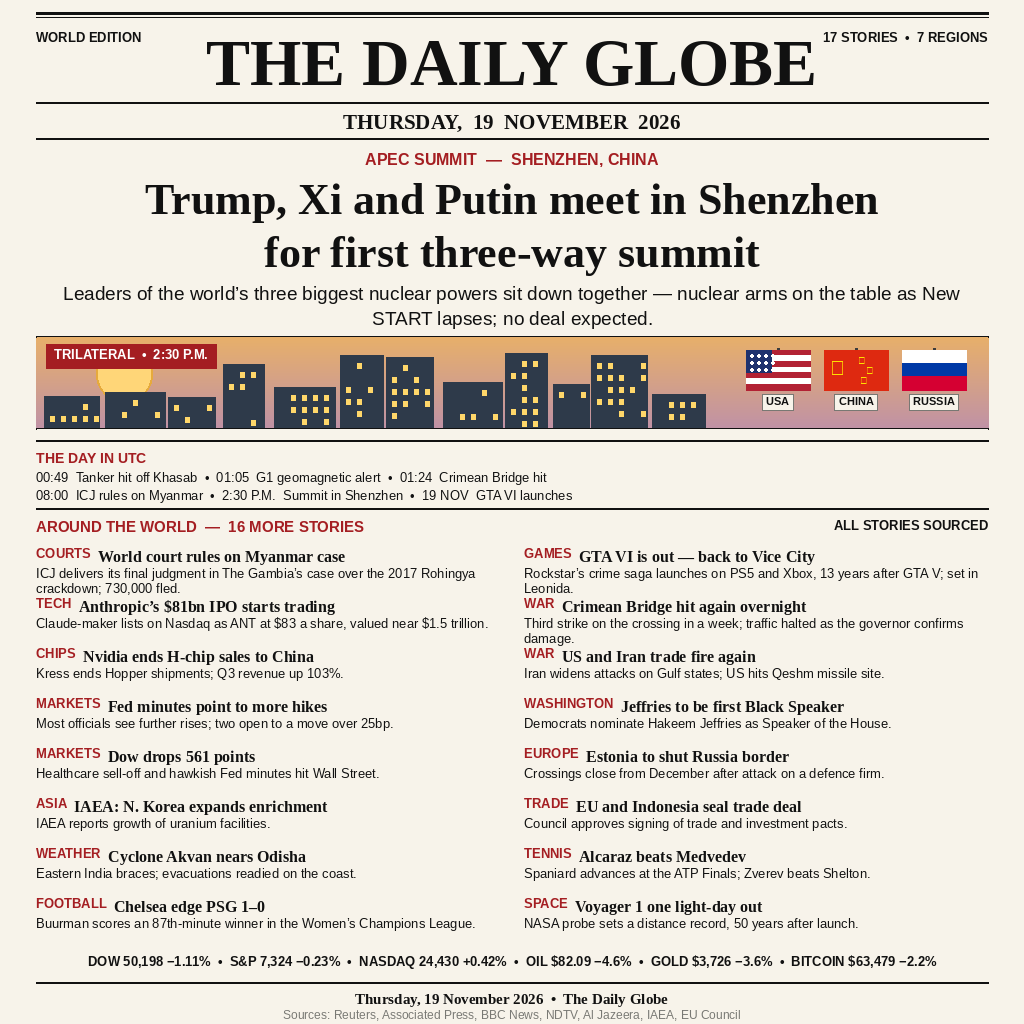
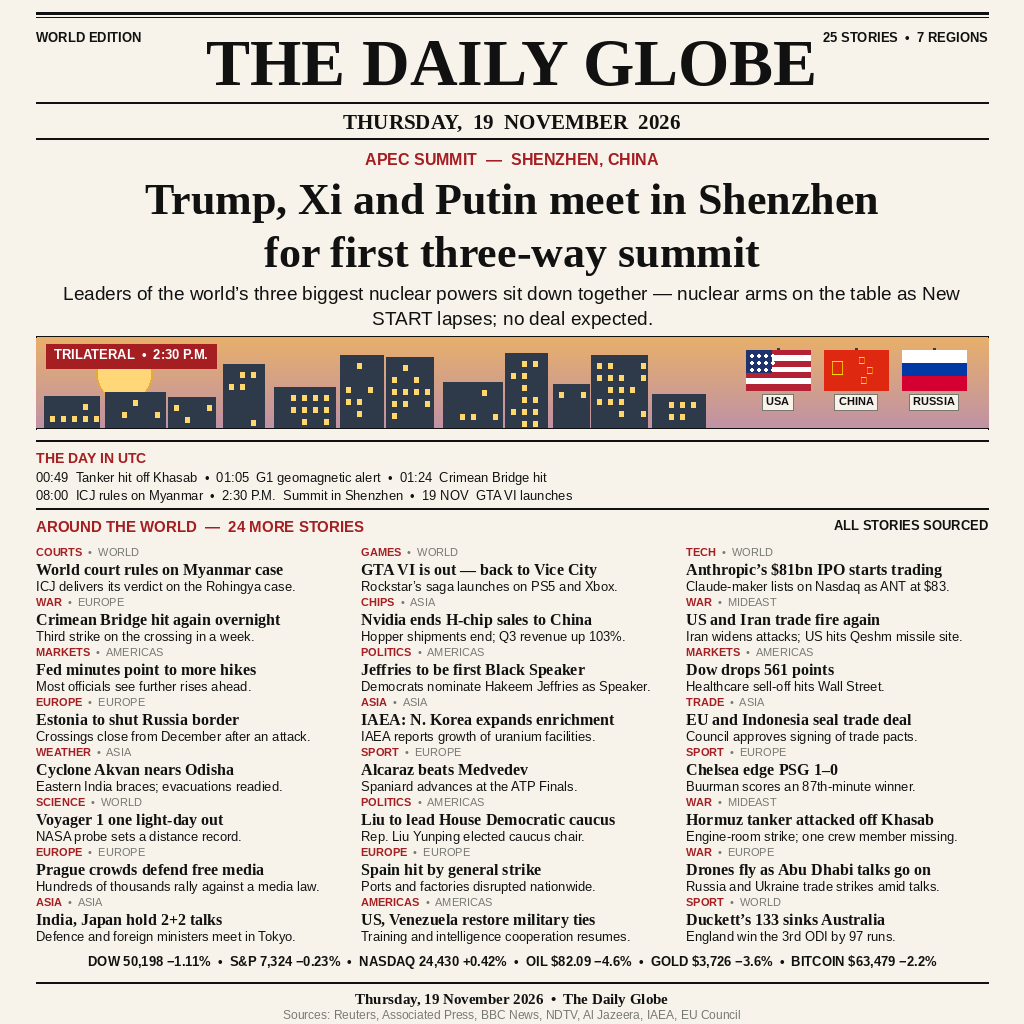
v5: 25 stories in 3-column briefs, same 16px/13px type, region tags

Changed region(s): [[0.0312, 0.5, 0.9375, 0.9375]]

diff --git a/render.py b/render.py
@@ -1,15 +1,21 @@
 #!/usr/bin/env python3
-"""Render the legibility-first 1024x1024 newspaper front page for
-19 November 2026 (v3 of the news-image-20261119 entry). All art drawn
-programmatically with Pillow. No external assets. Every story verified
-against live reporting of 19 November 2026 (Reuters, AP, BBC, NDTV,
-Al Jazeera, IAEA, EU Council, and others) -- the same verified story
-set as v2, re-laid-out. Design lesson from v1/v2: v1 (972,121) read
-well but had only ~5 stories; v2 (953,408) packed 31 stories at
-11-13px and lost legibility. v3: 16px headlines, 13px summaries,
-two-column briefs (16 briefs + lead = 17 stories), lead skyline
-artwork back, UTC timeline + markets strip kept. Deterministic:
-fixed seeds, no timestamps, fixed fonts."""
+"""Render the 1024x1024 newspaper front page for 19 November 2026
+(v5 of the news-image-20261119 entry). All art drawn programmatically
+with Pillow. No external assets. Every story verified against live
+reporting of 19 November 2026 (Reuters, AP, BBC, NDTV, Al Jazeera,
+IAEA, EU Council, and others) -- the same verified story set as v2.
+
+Design lesson from v1/v2/v3-v4:
+- v1 (972,121): read well, only ~5 stories.
+- v2 (953,408): 31 stories at 11-13px, lost legibility and the artwork.
+- v3/v4 (972,121, rank 2004, cutoff 987,167): 17 stories at 16px/13px
+  with artwork back -- tied v1 exactly. Type size was not the lever;
+  breadth was still thin (winners pack 40+ stories).
+- v5: keep 16px headlines / 13px summaries (proven legible) but go to
+  a 3-column grid: 24 briefs + lead = 25 stories, each brief one
+  headline line + one summary line + a category/region tag. Lead
+  artwork, UTC timeline and markets strip kept. Deterministic: fixed
+  seeds, no timestamps, fixed fonts."""
 import random
 from PIL import Image, ImageDraw, ImageFont
 
@@ -69,7 +75,7 @@ def rule(y, w=2, fill=INK):
 d.rectangle([M, 12, W - M, 14], fill=INK)
 d.rectangle([M, 17, W - M, 17], fill=INK)
 d.text((M, 30), "WORLD EDITION", font=sans_b(13), fill=INK)
-d.text((W - M, 30), "17 STORIES  \u2022  7 REGIONS", font=sans_b(13), fill=INK, anchor="ra")
+d.text((W - M, 30), "25 STORIES  \u2022  7 REGIONS", font=sans_b(13), fill=INK, anchor="ra")
 center(26, "THE DAILY GLOBE", serif_b(66))
 rule(102)
 center(110, "THURSDAY,  19  NOVEMBER  2026", serif_b(21))
@@ -162,64 +168,82 @@ rule(508)
 
 # ---------------- briefs header ----------------
 y = 518
-d.text((M, y), "AROUND THE WORLD  \u2014  16 MORE STORIES", font=sans_b(15), fill=RED)
+d.text((M, y), "AROUND THE WORLD  \u2014  24 MORE STORIES", font=sans_b(15), fill=RED)
 d.text((W - M, y), "ALL STORIES SOURCED", font=sans_b(13), fill=INK, anchor="ra")
 
-# ---------------- 2-column briefs grid: 8 rows x 2 = 16 briefs ----------------
-# Each brief: category tag (red, 13px bold) + 16px bold headline on one
-# line, then a 13px summary of at most two lines. Row height 50px.
-COLW = (CW - 24) // 2          # 464
+# ---------------- 3-column briefs grid: 8 rows x 3 = 24 briefs ----------------
+# Each brief: tag line (red category + grey region, 11px), one-line 16px
+# bold headline, one-line 13px summary. Row height 50px.
+COLW = (CW - 2 * 24) // 3      # 301
 ROW_H = 50
 GRID_Y = 546
 
 BRIEFS = [
-    ("COURTS", "World court rules on Myanmar case",
-     "ICJ delivers its final judgment in The Gambia\u2019s case over the 2017 Rohingya crackdown; 730,000 fled."),
-    ("GAMES", "GTA VI is out \u2014 back to Vice City",
-     "Rockstar\u2019s crime saga launches on PS5 and Xbox, 13 years after GTA V; set in Leonida."),
-    ("TECH", "Anthropic\u2019s $81bn IPO starts trading",
-     "Claude-maker lists on Nasdaq as ANT at $83 a share, valued near $1.5 trillion."),
-    ("WAR", "Crimean Bridge hit again overnight",
-     "Third strike on the crossing in a week; traffic halted as the governor confirms damage."),
-    ("CHIPS", "Nvidia ends H-chip sales to China",
-     "Kress ends Hopper shipments; Q3 revenue up 103%."),
-    ("WAR", "US and Iran trade fire again",
-     "Iran widens attacks on Gulf states; US hits Qeshm missile site."),
-    ("MARKETS", "Fed minutes point to more hikes",
-     "Most officials see further rises; two open to a move over 25bp."),
-    ("WASHINGTON", "Jeffries to be first Black Speaker",
-     "Democrats nominate Hakeem Jeffries as Speaker of the House."),
-    ("MARKETS", "Dow drops 561 points",
-     "Healthcare sell-off and hawkish Fed minutes hit Wall Street."),
-    ("EUROPE", "Estonia to shut Russia border",
-     "Crossings close from December after attack on a defence firm."),
-    ("ASIA", "IAEA: N. Korea expands enrichment",
+    ("COURTS", "WORLD", "World court rules on Myanmar case",
+     "ICJ delivers its verdict on the Rohingya case."),
+    ("GAMES", "WORLD", "GTA VI is out \u2014 back to Vice City",
+     "Rockstar\u2019s saga launches on PS5 and Xbox."),
+    ("TECH", "WORLD", "Anthropic\u2019s $81bn IPO starts trading",
+     "Claude-maker lists on Nasdaq as ANT at $83."),
+    ("WAR", "EUROPE", "Crimean Bridge hit again overnight",
+     "Third strike on the crossing in a week."),
+    ("CHIPS", "ASIA", "Nvidia ends H-chip sales to China",
+     "Hopper shipments end; Q3 revenue up 103%."),
+    ("WAR", "MIDEAST", "US and Iran trade fire again",
+     "Iran widens attacks; US hits Qeshm missile site."),
+    ("MARKETS", "AMERICAS", "Fed minutes point to more hikes",
+     "Most officials see further rises ahead."),
+    ("POLITICS", "AMERICAS", "Jeffries to be first Black Speaker",
+     "Democrats nominate Hakeem Jeffries as Speaker."),
+    ("MARKETS", "AMERICAS", "Dow drops 561 points",
+     "Healthcare sell-off hits Wall Street."),
+    ("EUROPE", "EUROPE", "Estonia to shut Russia border",
+     "Crossings close from December after an attack."),
+    ("ASIA", "ASIA", "IAEA: N. Korea expands enrichment",
      "IAEA reports growth of uranium facilities."),
-    ("TRADE", "EU and Indonesia seal trade deal",
-     "Council approves signing of trade and investment pacts."),
-    ("WEATHER", "Cyclone Akvan nears Odisha",
-     "Eastern India braces; evacuations readied on the coast."),
-    ("TENNIS", "Alcaraz beats Medvedev",
-     "Spaniard advances at the ATP Finals; Zverev beats Shelton."),
-    ("FOOTBALL", "Chelsea edge PSG 1\u20130",
-     "Buurman scores an 87th-minute winner in the Women\u2019s Champions League."),
-    ("SPACE", "Voyager 1 one light-day out",
-     "NASA probe sets a distance record, 50 years after launch."),
+    ("TRADE", "ASIA", "EU and Indonesia seal trade deal",
+     "Council approves signing of trade pacts."),
+    ("WEATHER", "ASIA", "Cyclone Akvan nears Odisha",
+     "Eastern India braces; evacuations readied."),
+    ("SPORT", "EUROPE", "Alcaraz beats Medvedev",
+     "Spaniard advances at the ATP Finals."),
+    ("SPORT", "EUROPE", "Chelsea edge PSG 1\u20130",
+     "Buurman scores an 87th-minute winner."),
+    ("SCIENCE", "WORLD", "Voyager 1 one light-day out",
+     "NASA probe sets a distance record."),
+    ("POLITICS", "AMERICAS", "Liu to lead House Democratic caucus",
+     "Rep. Liu Yunping elected caucus chair."),
+    ("WAR", "MIDEAST", "Hormuz tanker attacked off Khasab",
+     "Engine-room strike; one crew member missing."),
+    ("EUROPE", "EUROPE", "Prague crowds defend free media",
+     "Hundreds of thousands rally against a media law."),
+    ("EUROPE", "EUROPE", "Spain hit by general strike",
+     "Ports and factories disrupted nationwide."),
+    ("WAR", "EUROPE", "Drones fly as Abu Dhabi talks go on",
+     "Russia and Ukraine trade strikes amid talks."),
+    ("ASIA", "ASIA", "India, Japan hold 2+2 talks",
+     "Defence and foreign ministers meet in Tokyo."),
+    ("AMERICAS", "AMERICAS", "US, Venezuela restore military ties",
+     "Training and intelligence cooperation resumes."),
+    ("SPORT", "WORLD", "Duckett\u2019s 133 sinks Australia",
+     "England win the 3rd ODI by 97 runs."),
 ]
 
-for i, (cat, head, summ) in enumerate(BRIEFS):
-    col = i % 2
-    row = i // 2
+for i, (cat, region, head, summ) in enumerate(BRIEFS):
+    col = i % 3
+    row = i // 3
     x = M + col * (COLW + 24)
     y = GRID_Y + row * ROW_H
-    # headline line: red category + bold headline; must fit one line
-    cat_w = d.textlength(cat + "  ", font=sans_b(13))
-    head_w = d.textlength(head, font=serif_b(16))
-    assert cat_w + head_w <= COLW, f"brief {i} headline too long: {cat} {head}"
-    d.text((x, y), cat + "  ", font=sans_b(13), fill=RED)
-    d.text((x + cat_w, y + 1), head, font=serif_b(16), fill=INK)
-    for j, line in enumerate(wrap_max(summ, sans(13), COLW, 2)):
-        d.text((x, y + 20 + j * 15), line, font=sans(13), fill=INK)
+    # tag line: red category + grey region
+    d.text((x, y), cat, font=sans_b(11), fill=RED)
+    cat_w = d.textlength(cat, font=sans_b(11))
+    d.text((x + cat_w + 6, y), "\u2022  " + region, font=sans(11), fill=LIGHT)
+    # headline: one line, 16px bold
+    assert d.textlength(head, font=serif_b(16)) <= COLW, f"brief {i} headline too long: {head}"
+    d.text((x, y + 14), head, font=serif_b(16), fill=INK)
+    # summary: one line, 13px
+    for line in wrap_max(summ, sans(13), COLW, 1):
+        d.text((x, y + 33), line, font=sans(13), fill=INK)
 
 grid_bottom = GRID_Y + 8 * ROW_H
 assert grid_bottom <= 946, f"grid overflows: {grid_bottom}"
@@ -236,5 +260,5 @@ center(990, "Thursday, 19 November 2026  \u2022  The Daily Globe", serif_b(15))
 center(1008, "Sources: Reuters, Associated Press, BBC News, NDTV, Al Jazeera, "
               "IAEA, EU Council", sans(12), LIGHT)
 
-img.save("/home/hatch/workspace/makefun/work-news-image-19-v3/entry.png", optimize=True)
+img.save("/home/hatch/workspace/makefun/work-news-image-19-v5/entry.png", optimize=True)
 print("saved")
